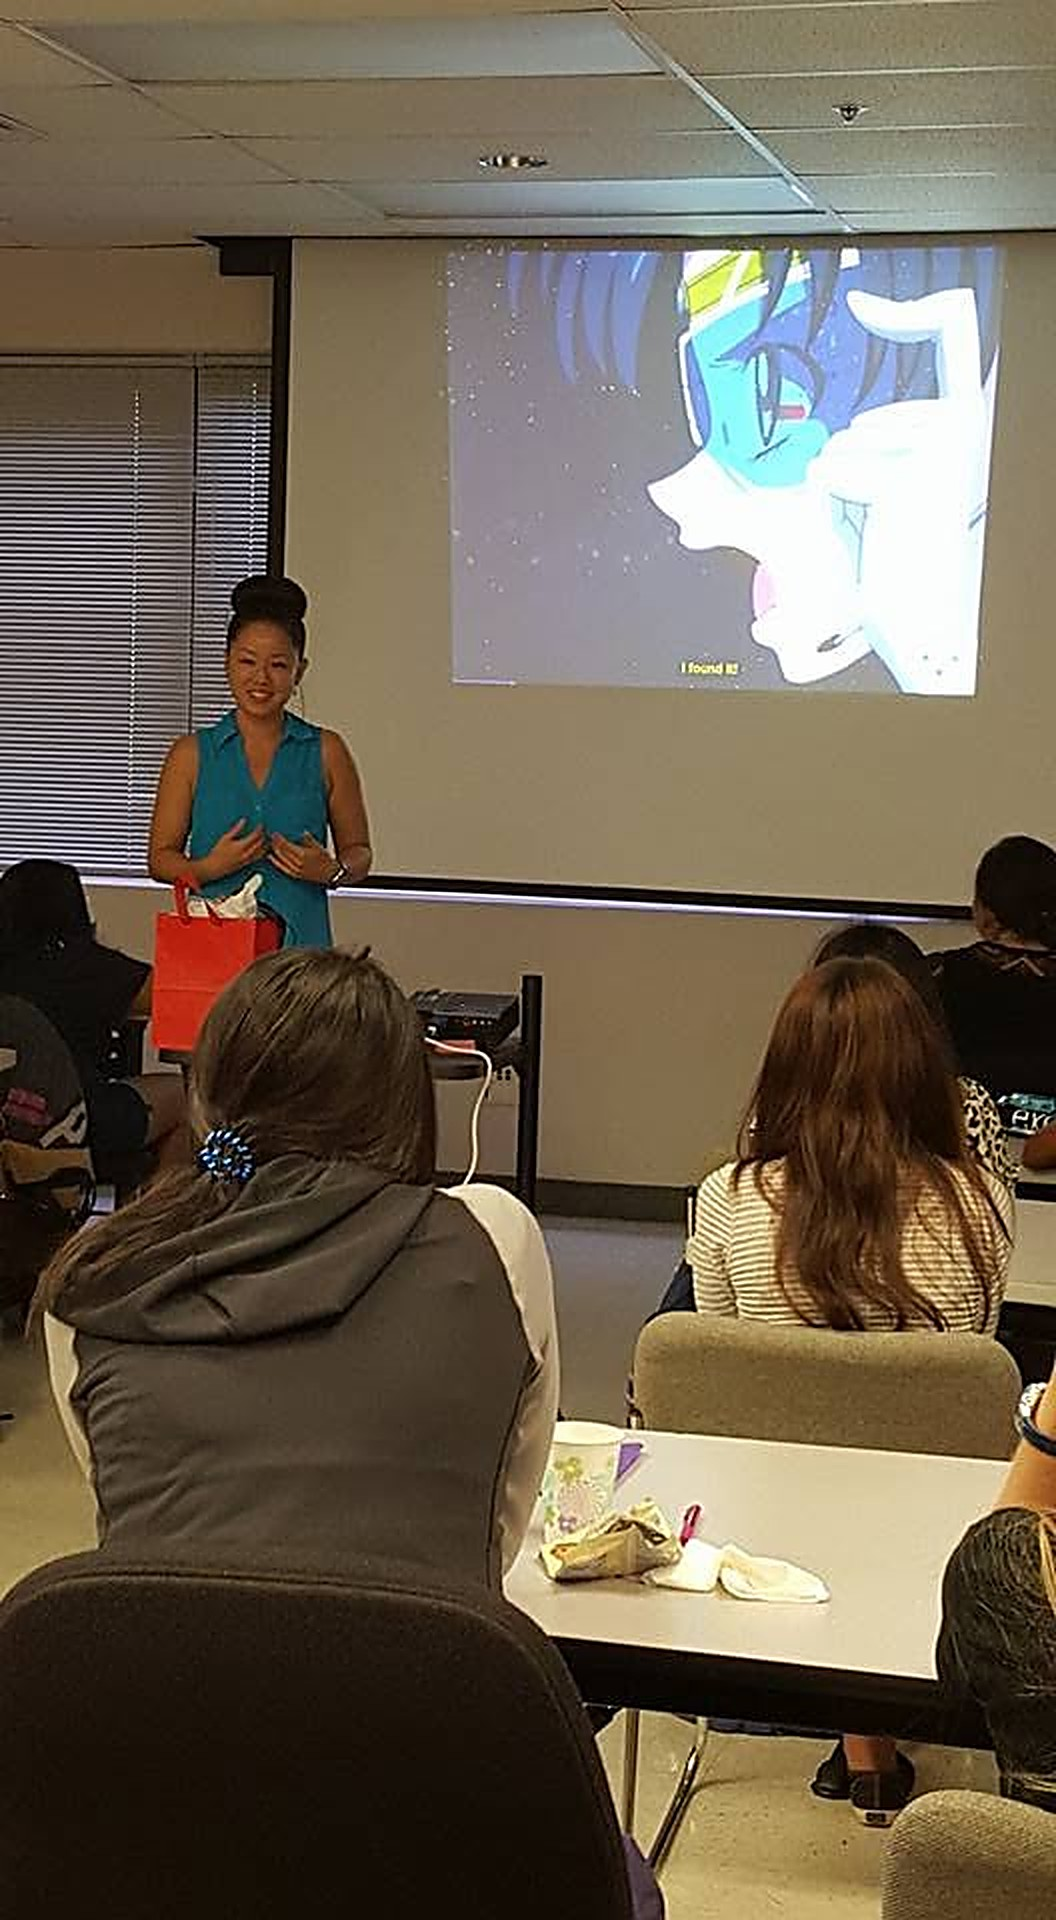
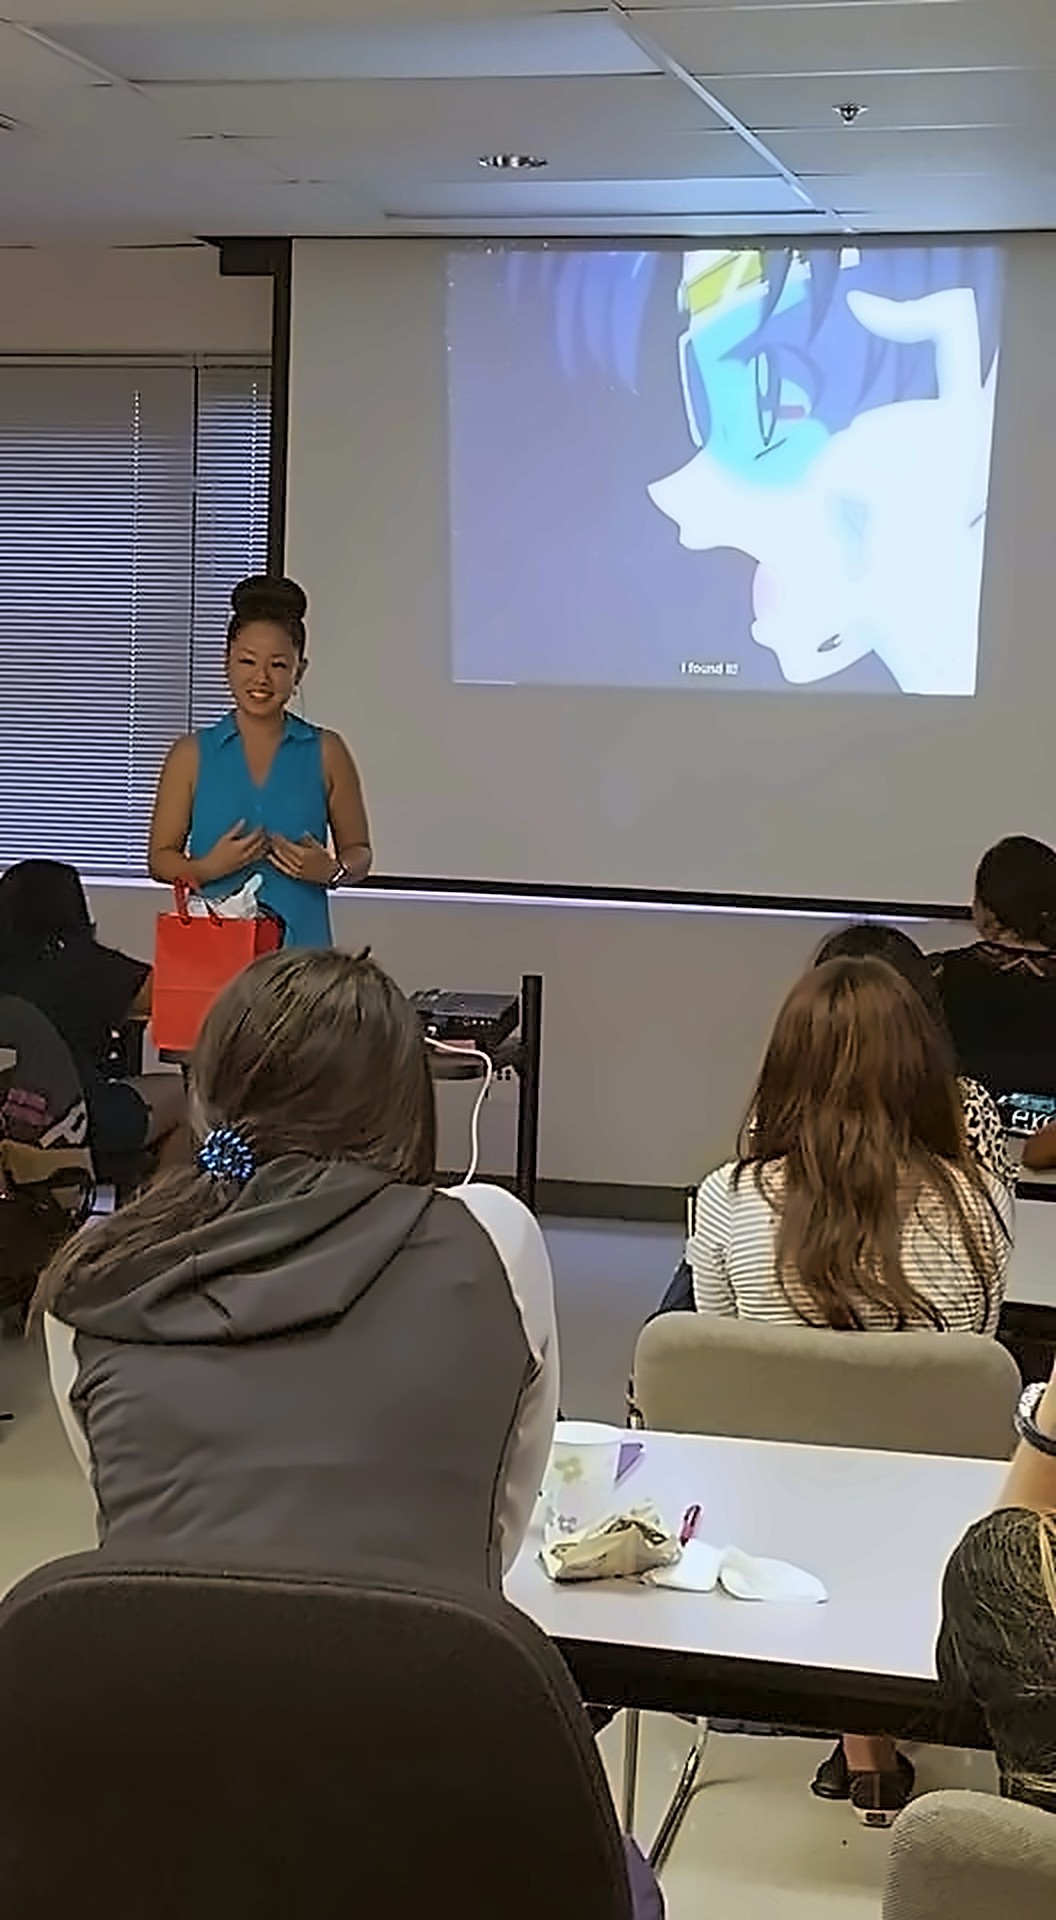
Lead the EXCITE Camp page with the group photo
The group photo with three campers is the main image again. The gallery
adds the photo with one camper (its invented badge text removed) and
shows all three photos in one row at the same height, so the tall talk
photo no longer fills the page. The talk photo is a cleaner, color
corrected version of the original.

diff --git a/src/content/projects.ts b/src/content/projects.ts
@@ -36,6 +36,9 @@ export type Project = {
     moreVideos?: { youtube: string; title: string }[]; // more public YouTube videos, embedded under the story
     video?: string; // self-hosted clip when there's no public Vimeo
     images?: (string | MediaClip)[]; // the gallery, in order: stills, or clips that play on hover
+    // Gallery columns on wider screens, e.g. "1.78fr 0.55fr" (each photo's width / height) so a landscape and a
+    // portrait photo share one row height. Without it, a lone portrait photo fills the page width and gets very tall.
+    galleryColumns?: string;
   };
   links?: { label: string; href: string }[];
   featured?: number; // order on the home page
@@ -910,7 +913,6 @@ const allProjects: Project[] = [
 
   // Teresa, 2026-11-17: her talk at EXCITE Camp on Oahu (MEDB's Women in Technology day camp for 7th and
   // 8th grade girls). Quote from the camp's post, with "tells" corrected to "tell" and light punctuation.
-  // The group photo was sharpened with Real-ESRGAN (75% upscaled, 25% original) at her request.
   {
     slug: "excite-camp-oahu-talk",
     client: "EXCITE Camp, Oahu",
@@ -935,12 +937,21 @@ const allProjects: Project[] = [
         href: "https://www.facebook.com/WITHawaii/posts/pfbid021g6VRrkpzYMgFHg2RA554W6bCkodwHeGzsFrV6AiMR3iaDR7Rk8JX9gw8FrGayP7l",
       },
     ],
+    // Teresa, 2026-11-18: no AI note for the camper photo's Gemini sharpening ("You don't need to add that").
     media: {
+      // Teresa, 2026-11-18: the group photo is the main image ("They're grown now, in college"). Facebook's 960x540
+      // copy, unedited, used as the poster and first in the gallery. No names show (the one badge in frame is cut off).
       poster: "/media/posters/excite-camp-oahu.jpg",
-      // Teresa, 2026-11-17: the group photo is out. The talk photo is the original, resized 2x (Lanczos) with a light
-      // unsharp mask. No AI upscaling: she could tell the Real-ESRGAN version was altered. The poster is a 16:9 crop
-      // with her whole head in frame, so the hero and the card are edge to edge.
-      images: ["/media/images/excite-camp-oahu-1.jpg"],
+      images: [
+        "/media/images/excite-camp-oahu-group.jpg",
+        // Her Gemini-sharpened version of image0.jpeg. Gemini invented badge text (a "Sports Comp" logo and a camper's
+        // full name); the real badge is blank, so that text was removed with classic inpainting (OpenCV Telea).
+        "/media/images/excite-camp-oahu-camper.jpg",
+        // No AI: she turned down both a Real-ESRGAN upscale and a Gemini edit of this one. Her original, white balanced
+        // to match her skin and shirt in a clear photo from that day, JPEG noise reduced, 2x Lanczos, edge-only sharpening.
+        "/media/images/excite-camp-oahu-1.jpg",
+      ],
+      galleryColumns: "1.778fr 0.747fr 0.55fr", // each photo's width / height, so all three share one row height
     },
   },
 

diff --git a/src/components/Gallery.tsx b/src/components/Gallery.tsx
@@ -13,7 +13,7 @@ import {
   faPlay,
   faXmark,
 } from "@fortawesome/free-solid-svg-icons";
-import { useEffect, useRef, useState } from "react";
+import { type CSSProperties, useEffect, useRef, useState } from "react";
 import Icon from "./Icon";
 import styles from "./Gallery.module.css";
 
@@ -32,7 +32,9 @@ const startPreview = (tile: HTMLElement) => {
 };
 const stopPreview = (tile: HTMLElement) => tile.querySelector("video")?.pause();
 
-export default function Gallery({ items }: Readonly<{ items: GalleryItem[] }>) {
+// columns: optional grid columns for wider screens (e.g. "1.78fr 0.55fr", each photo's width / height) so
+// photos of different shapes share one row height instead of a tall photo filling the page.
+export default function Gallery({ items, columns }: Readonly<{ items: GalleryItem[]; columns?: string }>) {
   const dialog = useRef<HTMLDialogElement>(null);
   const grid = useRef<HTMLUListElement>(null);
   const touchX = useRef<number | null>(null);
@@ -82,7 +84,11 @@ export default function Gallery({ items }: Readonly<{ items: GalleryItem[] }>) {
 
   return (
     <>
-      <ul ref={grid} className={styles.grid}>
+      <ul
+        ref={grid}
+        className={`${styles.grid} ${columns ? styles.custom : ""}`}
+        style={columns ? ({ "--cols": columns } as CSSProperties) : undefined}
+      >
         {items.map((it, i) => (
           <li key={it.src}>
             <button

diff --git a/src/components/Gallery.module.css b/src/components/Gallery.module.css
@@ -1,4 +1,6 @@
 .grid { list-style: none; margin: 0; padding: 0; display: grid; grid-template-columns: repeat(auto-fit, minmax(min(100%, 420px), 1fr)); gap: 20px; }
+/* A project can set its own columns (Teresa, 2026-11-18): photos side by side at one height. Phones stack them. */
+@media (min-width: 700px) { .custom { grid-template-columns: var(--cols); align-items: start; } }
 
 .tile {
   position: relative; display: block; width: 100%; padding: 0; overflow: hidden; cursor: zoom-in;

diff --git a/src/app/work/[slug]/page.tsx b/src/app/work/[slug]/page.tsx
@@ -207,7 +207,7 @@ export default async function ProjectPage(props: PageProps<"/work/[slug]">) {
 
       {gallery.length > 0 && (
         <div className={`wrap ${styles.gallery}`}>
-          <Gallery items={gallery} />
+          <Gallery items={gallery} columns={project.media.galleryColumns} />
         </div>
       )}
 
